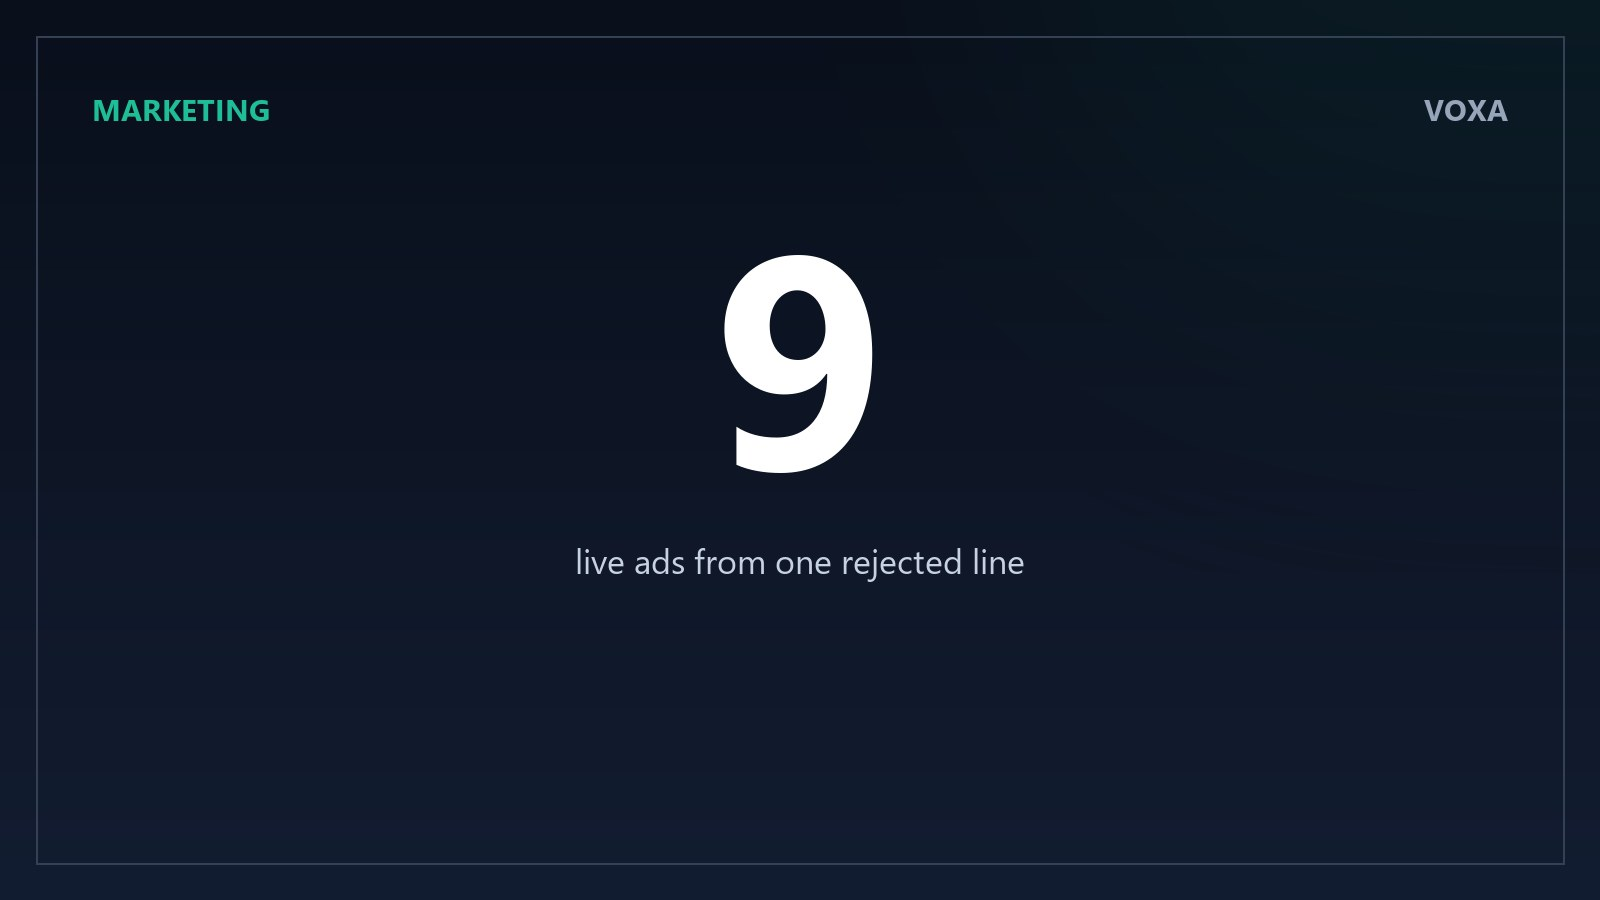
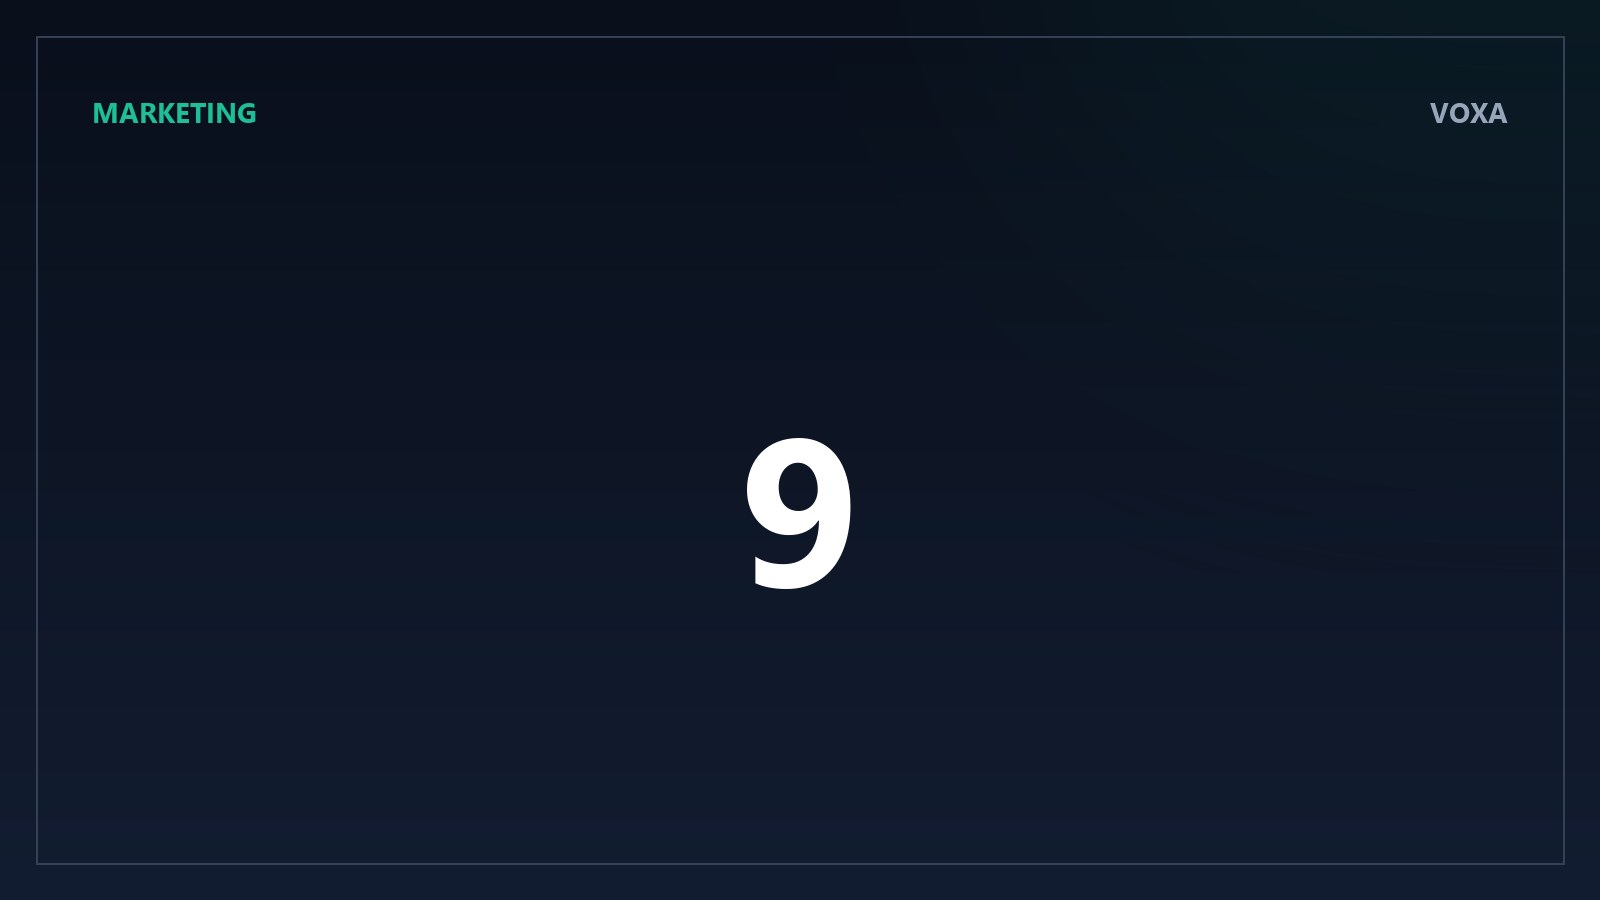
Blog covers: number sized to survive the hero crop at every width

Changed region(s): [[0.3438, 0.28, 0.6562, 0.6533], [0.0625, 0.0933, 0.1875, 0.1556], [0.875, 0.0933, 0.9375, 0.1556]]

diff --git a/blog/index.html b/blog/index.html
@@ -130,7 +130,7 @@ footer a{display:block;margin-bottom:7px}
 <section style="padding-bottom:70px"><div class="wrap"><a class="bfeat" href="/blog/ai-free-tier-shrinking/"> <img src="/blog-images/ai-free-tier-shrinking.jpg" alt="The AI Free Tier Is Shrinking: What Five Tools Changed in 2026" width="1600" height="900"> <div class="bfeat__grad"></div> <div class="bfeat__body"><span class="bpill">Technology</span><h2>The AI Free Tier Is Shrinking: What Five Tools Changed in 2026</h2><p>Two tools removed their free plan, one dropped its $50 tier, one cut prices by 87%. Here is what each plan really buys now…</p> <div class="bmeta">19 November 2026 · 8 min read</div></div></a>
 <div class="bcat-head"><h2 class="hd" style="font-size:24px;margin:0">Technology</h2><a href="/blog/technology/">View all →</a></div>
 <div class="bgrid" style="grid-template-columns:repeat(2,1fr)"><a class="bcard" href="/blog/ad-policy-rules-checklist/">
-  <img src="/blog-images/ad-policy-rules-checklist.jpg?v=3" alt="What 89 Ad Policy Rules Actually Catch, and the 11 That Slip" width="1600" height="900" loading="lazy">
+  <img src="/blog-images/ad-policy-rules-checklist.jpg?v=4" alt="What 89 Ad Policy Rules Actually Catch, and the 11 That Slip" width="1600" height="900" loading="lazy">
   <div class="bcard__body"><span class="bpill" style="align-self:flex-start">Technology</span>
   <h3>What 89 Ad Policy Rules Actually Catch, and the 11 That Slip</h3><p>The 89 rules, split by what they check, and the eleven things a rule list can never catch: the photo, the voiceover, your account history.</p><div class="bcard__meta">26 November 2026 · 7 min read</div></div></a><a class="bcard" href="/blog/preflight-ad-check/">
   <img src="/blog-images/preflight-ad-check.jpg" alt="What a Pre-Flight Ad Check Catches, and What It Cannot" width="1600" height="900" loading="lazy">
@@ -164,7 +164,7 @@ footer a{display:block;margin-bottom:7px}
 </div>
 <div class="bcat-head"><h2 class="hd" style="font-size:24px;margin:0">Marketing</h2><a href="/blog/marketing/">View all →</a></div>
 <div class="bgrid" style="grid-template-columns:repeat(2,1fr)"><a class="bcard" href="/blog/bulk-launch-ads-rejection/">
-  <img src="/blog-images/bulk-launch-ads-rejection.jpg?v=3" alt="One Rejected Line, Nine Live Ads: Why Bulk Launching Multiplies a Policy Mistake" width="1600" height="900" loading="lazy">
+  <img src="/blog-images/bulk-launch-ads-rejection.jpg?v=4" alt="One Rejected Line, Nine Live Ads: Why Bulk Launching Multiplies a Policy Mistake" width="1600" height="900" loading="lazy">
   <div class="bcard__body"><span class="bpill" style="align-self:flex-start">Marketing</span>
   <h3>One Rejected Line, Nine Live Ads: Why Bulk Launching Multiplies a Policy Mistake</h3><p>27 ads from one afternoon of setup, with the same copy line inside nine of them. The arithmetic of a bulk launch, and the order that stops the spread.</p><div class="bcard__meta">26 November 2026 · 6 min read</div></div></a><a class="bcard" href="/blog/facebook-ad-rejection-lines/">
   <img src="/blog-images/facebook-ad-rejection-lines.jpg" alt="The Lines That Get a Facebook Ad Rejected in 2026" width="1600" height="900" loading="lazy">
@@ -194,7 +194,7 @@ footer a{display:block;margin-bottom:7px}
 </div>
 <div class="bcat-head"><h2 class="hd" style="font-size:24px;margin:0">Business &amp; Money</h2><a href="/blog/business/">View all →</a></div>
 <div class="bgrid" style="grid-template-columns:repeat(2,1fr)"><a class="bcard" href="/blog/ad-account-banned-cost/">
-  <img src="/blog-images/ad-account-banned-cost.jpg?v=3" alt="What a Banned Ad Account Costs, in Money and in Weeks" width="1600" height="900" loading="lazy">
+  <img src="/blog-images/ad-account-banned-cost.jpg?v=4" alt="What a Banned Ad Account Costs, in Money and in Weeks" width="1600" height="900" loading="lazy">
   <div class="bcard__body"><span class="bpill" style="align-self:flex-start">Business & Money</span>
   <h3>What a Banned Ad Account Costs, in Money and in Weeks</h3><p>Three weeks down on a $3,000 account costs about $1,155 of margin, plus two weeks of rebuilding. What comes back and what never does.</p><div class="bcard__meta">26 November 2026 · 6 min read</div></div></a><a class="bcard" href="/blog/what-an-hour-is-worth/">
   <img src="/blog-images/what-an-hour-is-worth.jpg" alt="What an Hour of Your Time Is Worth, Calculated" width="1600" height="900" loading="lazy">

diff --git a/blog/marketing/index.html b/blog/marketing/index.html
@@ -127,7 +127,7 @@ footer a{display:block;margin-bottom:7px}
 @media(max-width:640px){.nav{height:auto;padding-top:8px}.navlinks{flex-wrap:wrap;overflow:visible;gap:2px 16px;font-size:13.5px;padding:4px 0 10px}.navlinks a{padding:2px 0}}</style><div class="hero" style="padding:52px 0 34px"><div class="wrap"><p style="font-size:13px;letter-spacing:2px;text-transform:uppercase;font-weight:800;color:rgba(255,255,255,.78)">Category</p>
 <h1 class="hd" style="font-size:46px;margin-top:4px">Marketing</h1><p class="herosub">7 articles on marketing for small US businesses.</p></div></div>
 <section style="padding:10px 0 70px"><div class="wrap"><div class="bgrid" style="grid-template-columns:repeat(2,1fr)"><a class="bcard" href="/blog/bulk-launch-ads-rejection/">
-  <img src="/blog-images/bulk-launch-ads-rejection.jpg?v=3" alt="One Rejected Line, Nine Live Ads: Why Bulk Launching Multiplies a Policy Mistake" width="1600" height="900" loading="lazy">
+  <img src="/blog-images/bulk-launch-ads-rejection.jpg?v=4" alt="One Rejected Line, Nine Live Ads: Why Bulk Launching Multiplies a Policy Mistake" width="1600" height="900" loading="lazy">
   <div class="bcard__body"><span class="bpill" style="align-self:flex-start">Marketing</span>
   <h3>One Rejected Line, Nine Live Ads: Why Bulk Launching Multiplies a Policy Mistake</h3><p>27 ads from one afternoon of setup, with the same copy line inside nine of them. The arithmetic of a bulk launch, and the order that stops the spread.</p><div class="bcard__meta">26 November 2026 · 6 min read</div></div></a>
 <a class="bcard" href="/blog/facebook-ad-rejection-lines/">

diff --git a/blog/technology/index.html b/blog/technology/index.html
@@ -127,7 +127,7 @@ footer a{display:block;margin-bottom:7px}
 @media(max-width:640px){.nav{height:auto;padding-top:8px}.navlinks{flex-wrap:wrap;overflow:visible;gap:2px 16px;font-size:13.5px;padding:4px 0 10px}.navlinks a{padding:2px 0}}</style><div class="hero" style="padding:52px 0 34px"><div class="wrap"><p style="font-size:13px;letter-spacing:2px;text-transform:uppercase;font-weight:800;color:rgba(255,255,255,.78)">Category</p>
 <h1 class="hd" style="font-size:46px;margin-top:4px">Technology</h1><p class="herosub">8 articles on technology for small US businesses.</p></div></div>
 <section style="padding:10px 0 70px"><div class="wrap"><div class="bgrid" style="grid-template-columns:repeat(2,1fr)"><a class="bcard" href="/blog/ad-policy-rules-checklist/">
-  <img src="/blog-images/ad-policy-rules-checklist.jpg?v=3" alt="What 89 Ad Policy Rules Actually Catch, and the 11 That Slip" width="1600" height="900" loading="lazy">
+  <img src="/blog-images/ad-policy-rules-checklist.jpg?v=4" alt="What 89 Ad Policy Rules Actually Catch, and the 11 That Slip" width="1600" height="900" loading="lazy">
   <div class="bcard__body"><span class="bpill" style="align-self:flex-start">Technology</span>
   <h3>What 89 Ad Policy Rules Actually Catch, and the 11 That Slip</h3><p>The 89 rules, split by what they check, and the eleven things a rule list can never catch: the photo, the voiceover, your account history.</p><div class="bcard__meta">26 November 2026 · 7 min read</div></div></a>
 <a class="bcard" href="/blog/preflight-ad-check/">

diff --git a/blog/business/index.html b/blog/business/index.html
@@ -127,7 +127,7 @@ footer a{display:block;margin-bottom:7px}
 @media(max-width:640px){.nav{height:auto;padding-top:8px}.navlinks{flex-wrap:wrap;overflow:visible;gap:2px 16px;font-size:13.5px;padding:4px 0 10px}.navlinks a{padding:2px 0}}</style><div class="hero" style="padding:52px 0 34px"><div class="wrap"><p style="font-size:13px;letter-spacing:2px;text-transform:uppercase;font-weight:800;color:rgba(255,255,255,.78)">Category</p>
 <h1 class="hd" style="font-size:46px;margin-top:4px">Business & Money</h1><p class="herosub">7 articles on business & money for small US businesses.</p></div></div>
 <section style="padding:10px 0 70px"><div class="wrap"><div class="bgrid" style="grid-template-columns:repeat(2,1fr)"><a class="bcard" href="/blog/ad-account-banned-cost/">
-  <img src="/blog-images/ad-account-banned-cost.jpg?v=3" alt="What a Banned Ad Account Costs, in Money and in Weeks" width="1600" height="900" loading="lazy">
+  <img src="/blog-images/ad-account-banned-cost.jpg?v=4" alt="What a Banned Ad Account Costs, in Money and in Weeks" width="1600" height="900" loading="lazy">
   <div class="bcard__body"><span class="bpill" style="align-self:flex-start">Business & Money</span>
   <h3>What a Banned Ad Account Costs, in Money and in Weeks</h3><p>Three weeks down on a $3,000 account costs about $1,155 of margin, plus two weeks of rebuilding. What comes back and what never does.</p><div class="bcard__meta">26 November 2026 · 6 min read</div></div></a>
 <a class="bcard" href="/blog/what-an-hour-is-worth/">

diff --git a/blog/bulk-launch-ads-rejection/index.html b/blog/bulk-launch-ads-rejection/index.html
@@ -117,7 +117,7 @@ footer a{display:block;margin-bottom:7px}
 .answerbox p{margin-top:8px}
 @media(max-width:900px){.bgrid{grid-template-columns:1fr}.bfeat img{height:280px}.bfeat__body{padding:18px}.bfeat__body h2{font-size:21px}.bfeat__body p{display:none}.posthero img{height:300px}.posthero__body{padding-bottom:22px}.posthero__body h1{font-size:25px}.postbody{padding:30px 18px 56px}.postbody h2{font-size:22px}.bcat-head{margin-top:32px}}
 @media(max-width:640px){.nav{height:auto;padding-top:8px}.navlinks{flex-wrap:wrap;overflow:visible;gap:2px 16px;font-size:13.5px;padding:4px 0 10px}.navlinks a{padding:2px 0}}</style>
-<div class="posthero"><img src="/blog-images/bulk-launch-ads-rejection.jpg?v=3" alt="A dark card with the number 9, the live ads one rejected copy line reaches" width="1600" height="900">
+<div class="posthero"><img src="/blog-images/bulk-launch-ads-rejection.jpg?v=4" alt="A dark card with the number 9, the live ads one rejected copy line reaches" width="1600" height="900">
   <div class="posthero__grad"></div>
   <div class="posthero__body"><div class="bwrap"><span class="bpill">Marketing</span><h1>One Rejected Line, Nine Live Ads: Why Bulk Launching Multiplies a Policy Mistake</h1> <div class="bmeta">26 November 2026 · 6 min read · VOXA editorial</div></div></div></div>
 <article class="postbody">

diff --git a/blog/ad-account-banned-cost/index.html b/blog/ad-account-banned-cost/index.html
@@ -117,7 +117,7 @@ footer a{display:block;margin-bottom:7px}
 .answerbox p{margin-top:8px}
 @media(max-width:900px){.bgrid{grid-template-columns:1fr}.bfeat img{height:280px}.bfeat__body{padding:18px}.bfeat__body h2{font-size:21px}.bfeat__body p{display:none}.posthero img{height:300px}.posthero__body{padding-bottom:22px}.posthero__body h1{font-size:25px}.postbody{padding:30px 18px 56px}.postbody h2{font-size:22px}.bcat-head{margin-top:32px}}
 @media(max-width:640px){.nav{height:auto;padding-top:8px}.navlinks{flex-wrap:wrap;overflow:visible;gap:2px 16px;font-size:13.5px;padding:4px 0 10px}.navlinks a{padding:2px 0}}</style>
-<div class="posthero"><img src="/blog-images/ad-account-banned-cost.jpg?v=3" alt="A dark card with $1,155, the margin lost while an ad account sits down for three weeks" width="1600" height="900">
+<div class="posthero"><img src="/blog-images/ad-account-banned-cost.jpg?v=4" alt="A dark card with $1,155, the margin lost while an ad account sits down for three weeks" width="1600" height="900">
   <div class="posthero__grad"></div>
   <div class="posthero__body"><div class="bwrap"><span class="bpill">Business & Money</span><h1>What a Banned Ad Account Costs, in Money and in Weeks</h1> <div class="bmeta">26 November 2026 · 6 min read · VOXA editorial</div></div></div></div>
 <article class="postbody">

diff --git a/blog/ad-policy-rules-checklist/index.html b/blog/ad-policy-rules-checklist/index.html
@@ -117,7 +117,7 @@ footer a{display:block;margin-bottom:7px}
 .answerbox p{margin-top:8px}
 @media(max-width:900px){.bgrid{grid-template-columns:1fr}.bfeat img{height:280px}.bfeat__body{padding:18px}.bfeat__body h2{font-size:21px}.bfeat__body p{display:none}.posthero img{height:300px}.posthero__body{padding-bottom:22px}.posthero__body h1{font-size:25px}.postbody{padding:30px 18px 56px}.postbody h2{font-size:22px}.bcat-head{margin-top:32px}}
 @media(max-width:640px){.nav{height:auto;padding-top:8px}.navlinks{flex-wrap:wrap;overflow:visible;gap:2px 16px;font-size:13.5px;padding:4px 0 10px}.navlinks a{padding:2px 0}}</style>
-<div class="posthero"><img src="/blog-images/ad-policy-rules-checklist.jpg?v=3" alt="A dark card with the number 11, the gaps in an 89 rule ad policy checklist" width="1600" height="900">
+<div class="posthero"><img src="/blog-images/ad-policy-rules-checklist.jpg?v=4" alt="A dark card with the number 11, the gaps in an 89 rule ad policy checklist" width="1600" height="900">
   <div class="posthero__grad"></div>
   <div class="posthero__body"><div class="bwrap"><span class="bpill">Technology</span><h1>What 89 Ad Policy Rules Actually Catch, and the 11 That Slip</h1> <div class="bmeta">26 November 2026 · 7 min read · VOXA editorial</div></div></div></div>
 <article class="postbody">
